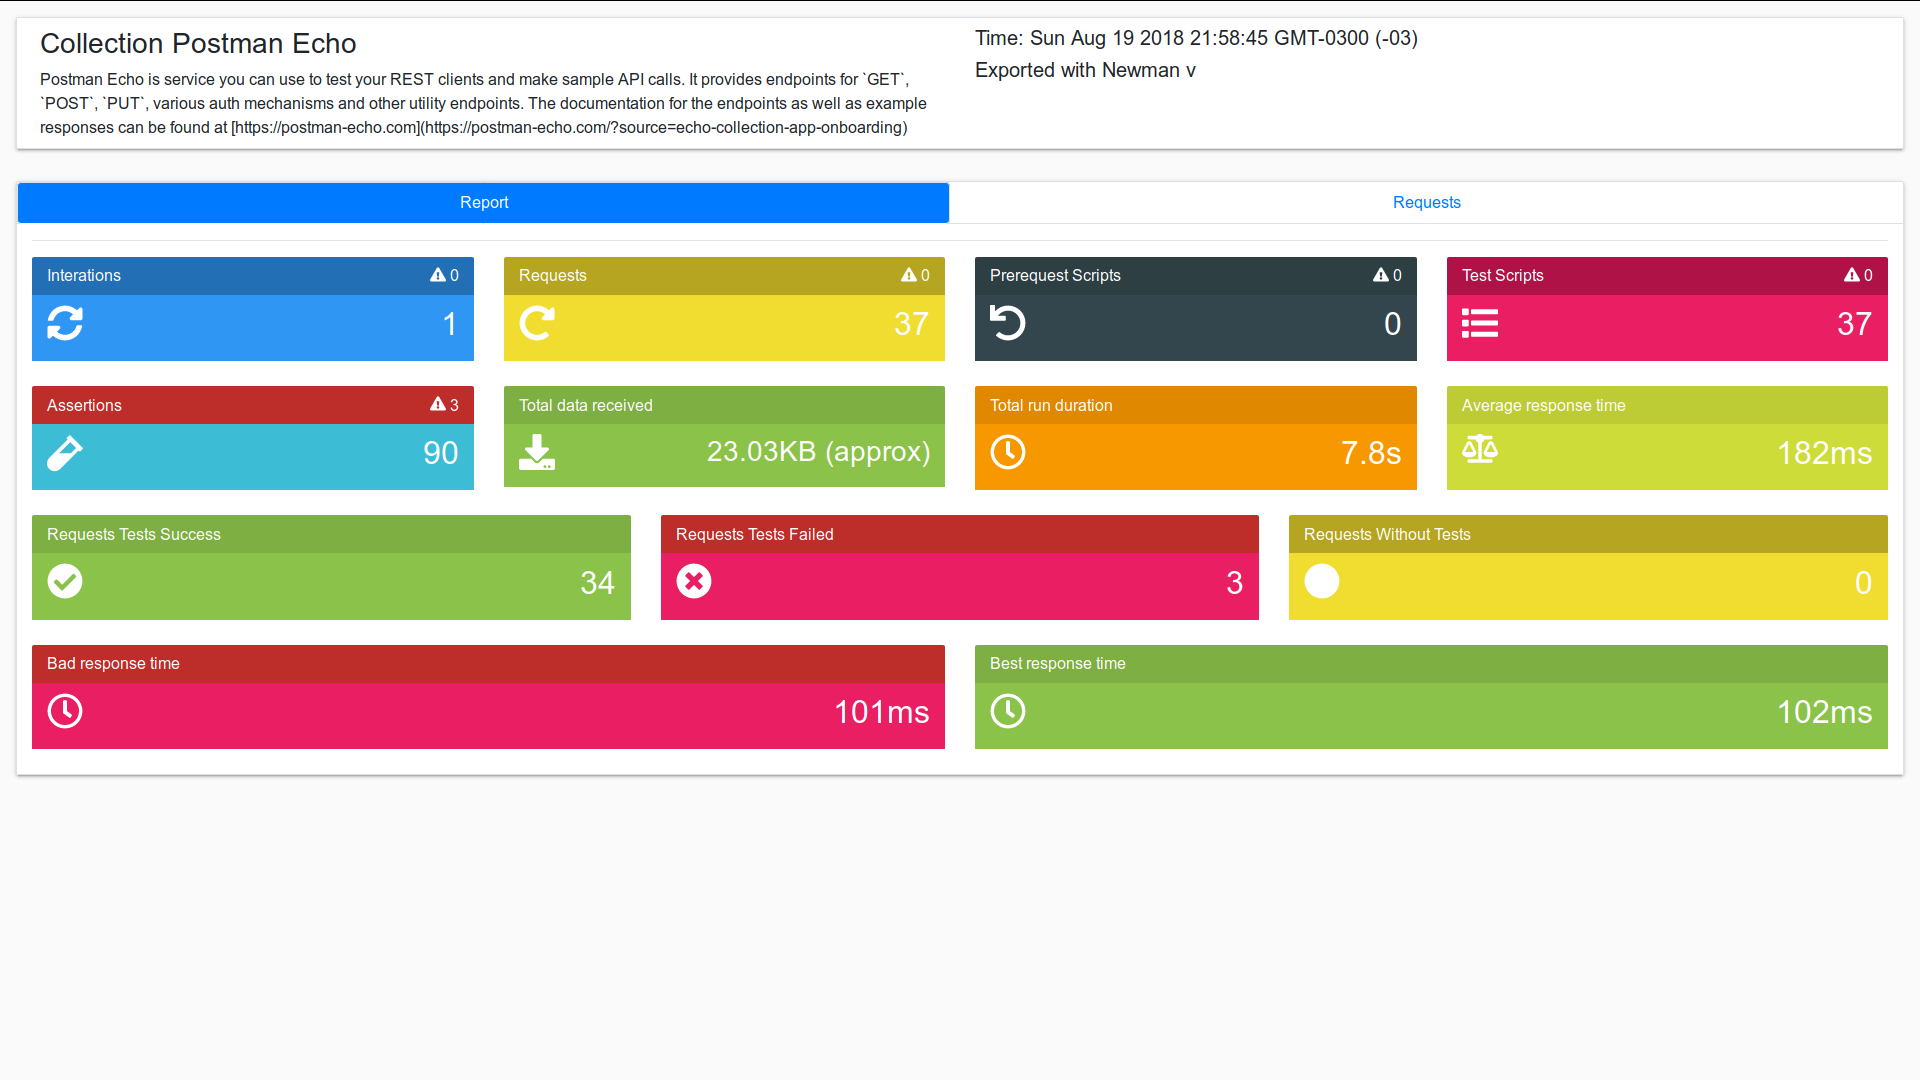
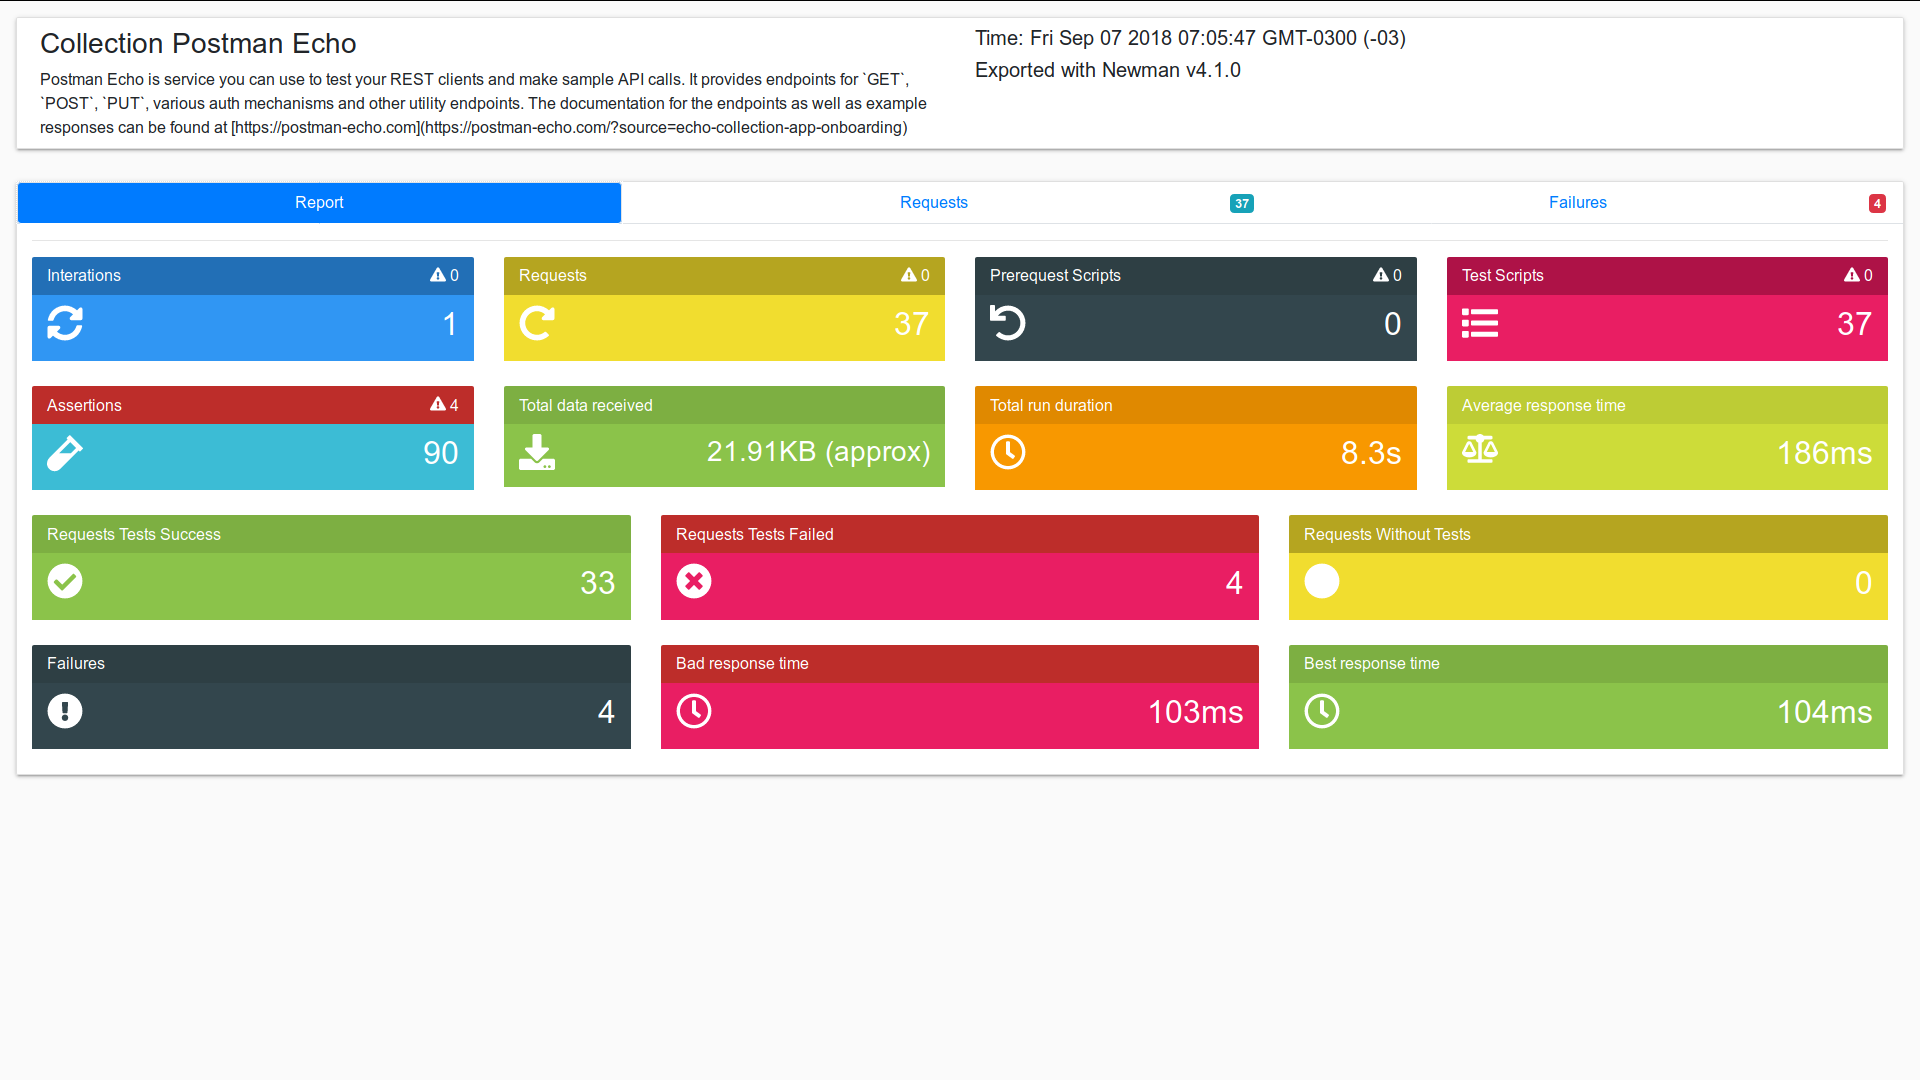
refactor(README,IMAGES): update

diff --git a/README.md b/README.md
@@ -1,4 +1,5 @@
-# newman-html-report-template-verbose
+# Newman HTML Report Template
+
 a newman html report template which contains request and response details (body plus http headers) in the report.
 (similar what you could get with the newman v2 -O out option)
 
@@ -7,6 +8,10 @@ The template is a modification from the [original reporter file](https://github.
 ## Demo: 
 
 [Awesome Newman Html Template](https://marcosellys.github.io/awesome-newman-html-template/)
+
+## Collection of tests
+
+[Postman Echo](https://www.getpostman.com/collections/631643-f695cab7-6878-eb55-7943-ad88e1ccfd65-JsLv?referrer=https%3A%2F%2Fdocs.postman-echo.com%2F#)
 
 ## Advantages:
 
@@ -17,16 +22,21 @@ The template is a modification from the [original reporter file](https://github.
 - With a modern library to copy text to clipboard.
 
 ## Prints
-* Report Tab
+
+### Report Tab
+
 <p align="center">
   <img alt="Initial Screen" src="https://raw.githubusercontent.com/MarcosEllys/awesome-newman-html-template/master/prints/one.png">
 </p>
-* Request Tab
+
+### Request Tab
+
 <p align="center">
   <img alt="Request opened" src="https://raw.githubusercontent.com/MarcosEllys/awesome-newman-html-template/master/prints/two.png">
 </p>
 
-* Request opened
+### Failures Tab
+
 <p align="center">
   <img alt="Requ2est opened" src="https://raw.githubusercontent.com/MarcosEllys/awesome-newman-html-template/master/prints/three.png">
 </p>
@@ -37,8 +47,9 @@ The template is a modification from the [original reporter file](https://github.
 - [Fuse JS](http://fusejs.io/)
 
 ## How to use
-* install newman
-* call newman as follows:
+* [Install Newman](https://github.com/postmanlabs/newman-reporter-html)
+* [Install Report HTML](https://github.com/postmanlabs/newman-reporter-html)
+* Call newman as follows:
 ```
-newman run -e env-INTEG.json --reporters cli,html --reporter-html-template templates/htmlreqres.hbs --reporter-html-export nice_report.html mycollection.postman.json
+newman run -e my.environment.json -g my.globals.json --reporters cli,html --reporter-html-template templates/htmlreqres.hbs --reporter-html-export my_report.html my.collection.postman.json
 ```
